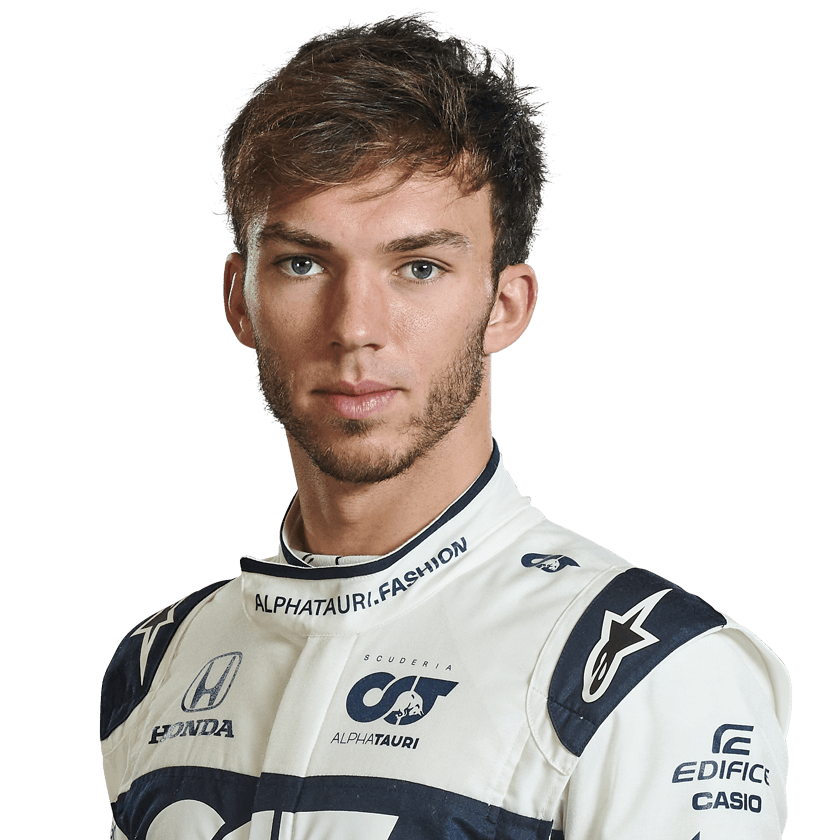
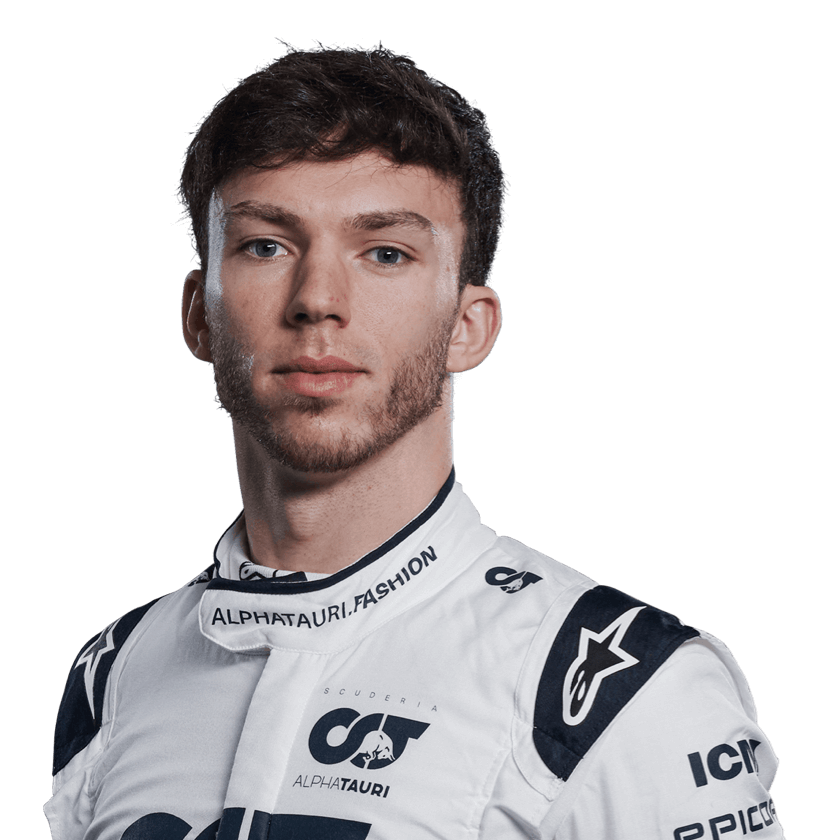
atualiza imgs dos pilotos e cria pag de resumo da aposta

diff --git a/app/assets/stylesheets/application.css b/app/assets/stylesheets/application.css
@@ -161,3 +161,11 @@ th {
     width: 400px;
 
 }
+
+
+/* BET SHOW */
+
+.mini-logo {
+    width: 53.5px;
+    height: 30px;
+}

diff --git a/app/controllers/bets_controller.rb b/app/controllers/bets_controller.rb
@@ -33,5 +33,14 @@ class BetsController < ApplicationController
 
   def show
     @bet = Bet.find(params[:id])
+    @pole = FormulaOneDriver.find_by(code: @bet.pole_position, year: @bet.year)
+    codes = [@bet.first, @bet.second,  @bet.third, @bet.fourth, @bet.fifth, @bet.sixth, @bet.seventh, @bet.eighth, @bet.ninth, @bet.tenth]
+    @drivers = []
+
+    codes.each do |code|
+      driver = FormulaOneDriver.find_by(code: code, year: @bet.year)
+      @drivers << driver
+    end
+
   end
 end

diff --git a/app/models/bet.rb b/app/models/bet.rb
@@ -18,7 +18,7 @@ class Bet < ApplicationRecord
    
 
     driver_codes.each do |code|
-      driver = FormulaOneDriver.find_by(code: code)
+      driver = FormulaOneDriver.find_by(code: code, year: Circuit.next_race.date.last(4))
       errors.add(:base, "Um ou mais pilotos inválidos!") if driver == nil
     end
   end
